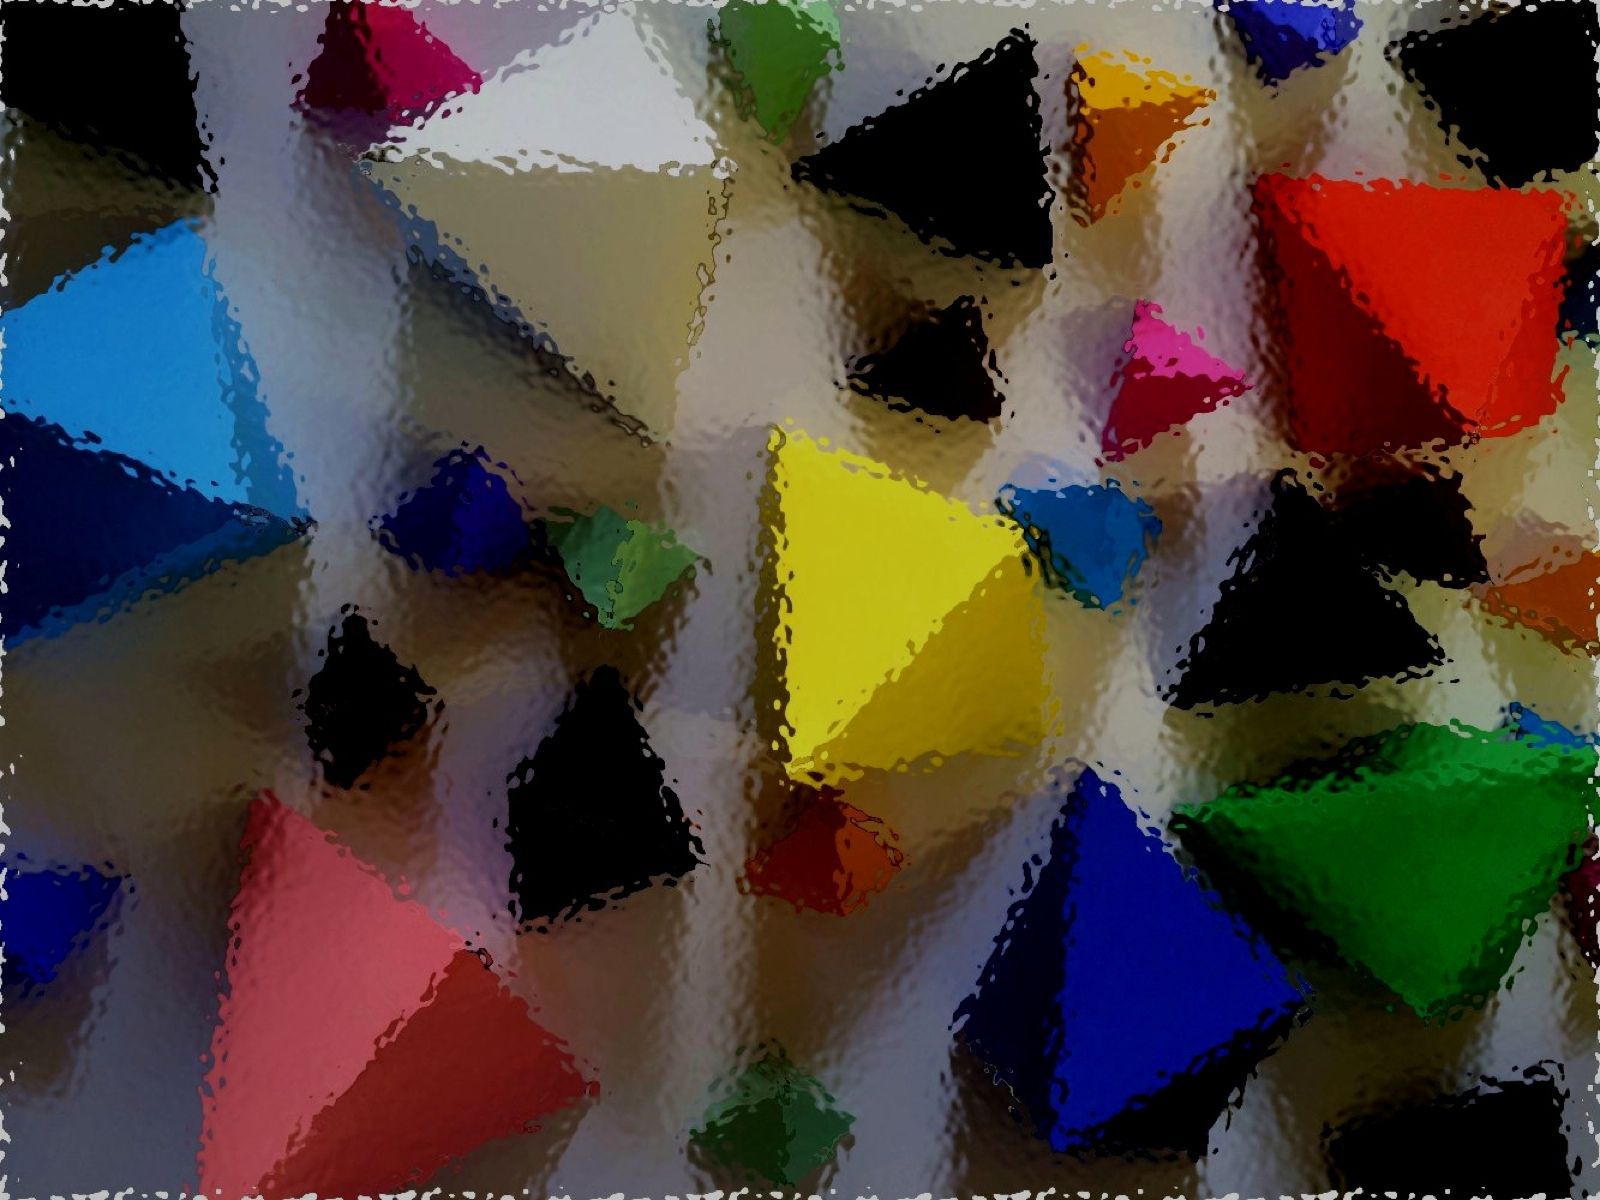
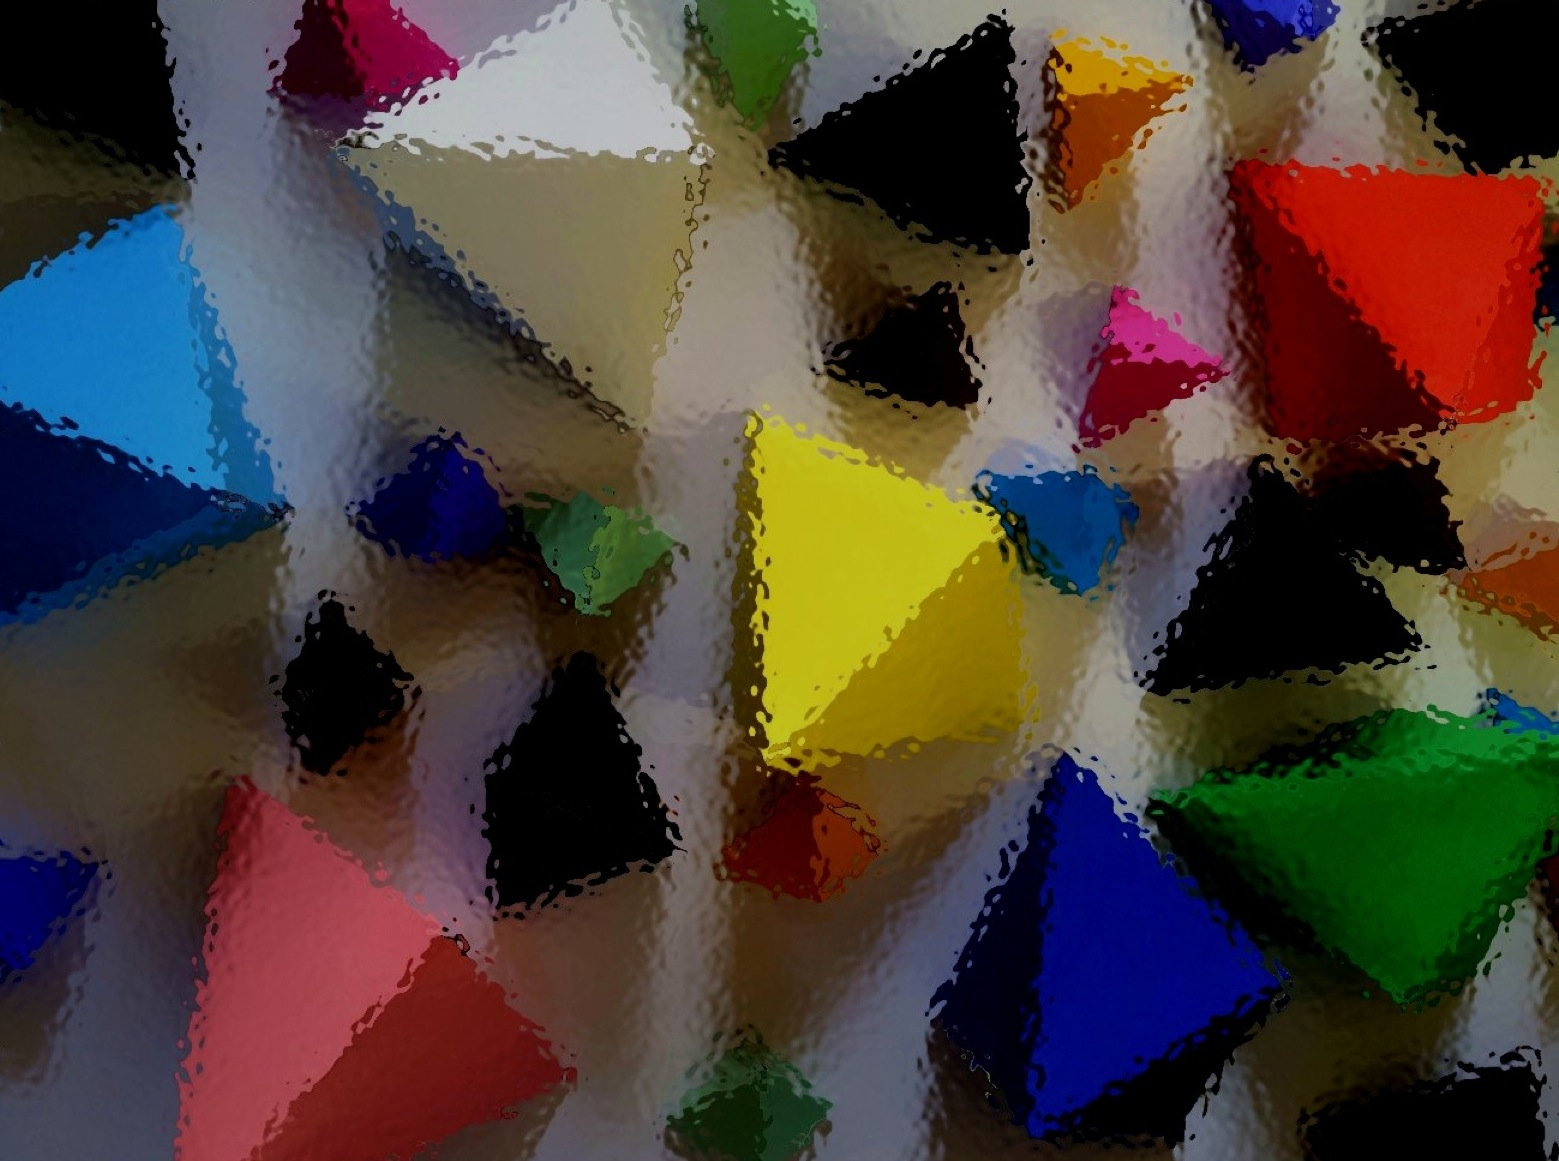
tweaked bgs

diff --git a/experiments/parallax.html b/experiments/parallax.html
@@ -10,7 +10,9 @@
 <link rel="stylesheet" href="../assets/fonts/webfonts/ss-social-regular.css">
 
 <script src="http://code.jquery.com/jquery-1.10.2.min.js"></script>
+<!--
 <script src="http://johnpolacek.github.io/scrolldeck.js/decks/parallax/scripts/jquery.parallax-1.1.js"></script>
+
 <script type="text/javascript">
 $(document).ready(function(){
 	//$('#nav').localScroll(800);
@@ -43,6 +45,7 @@ $(document).ready(function(){
     */
 })
 </script>
+-->
   <style>
      @font-face {
   	  font-family: Myriad_Pro_Condensed;
@@ -142,7 +145,7 @@ $(document).ready(function(){
     
     #first {
       background:url(images/5.jpeg) 50% 0 no-repeat fixed;
-     /*background-size: 100%;*/
+      background-size: 100%;
   	  height: 720px;  	  
 	  padding: 0;
 	  color: #FFF;
@@ -176,8 +179,8 @@ $(document).ready(function(){
 	}
 	
     #second {
-      border-top: 9px solid #3A74B4;
-  	  background:url(images/3.jpeg) 50% 0px no-repeat;
+      border-top: 9px solid #3ce0ba;
+  	  background: #222;
   	  /*background-size: 100%;*/
   	  height: 650px; 
 	}
@@ -185,9 +188,14 @@ $(document).ready(function(){
 	#second .story {
 	  padding-top: 190px;
 	  margin-left: 50px;
+	  color: #3ce0ba;
 	}
 	
+	#second .content {
+	  color: #FFF;
+	}
 	
+		
 	#second .button {
 	  padding-top: 2px;
 	}
@@ -202,8 +210,7 @@ $(document).ready(function(){
 	}
 	
 	#third {
-      border-top: 9px solid #6e2bc6;
-  	  background:url(images/2.jpeg) 50% 0px no-repeat;
+  	  background: #3ce0ba;
   	  /*background-size: 100%;*/
   	  height: 600px; 
 	}
@@ -212,12 +219,16 @@ $(document).ready(function(){
 	#third .story {
 	  padding-top: 0px;
 	  margin-left: 50px;
+	  color: #000;
 	}
-	
+
+    #third h2 {
+  	  text-shadow: none;
+
+    }	
 
 	#fourth {
-      border-top: 9px solid #3ce0ba;
-  	  background:url(images/7.jpeg) 50% 0px no-repeat;
+  	  background:#222;
   	  /*background-size: 100%;*/
   	  height: 550px; 
 	}
@@ -225,11 +236,15 @@ $(document).ready(function(){
  	#fourth .story {
 	  padding-top: 0px;
 	  margin-left: 50px;
-	}    
+	  color: #3ce0ba;
+	}   
+	
+	#fourth .content {
+      color: #FFF;
+	} 
 	
 	#fifth {
-      border-top: 9px solid #000;
-  	  background:url(images/1.jpeg) 50% 0px no-repeat;
+  	  background:#000;
   	  /*background-size: 100%;*/
   	  height: 250px; 
 	}
